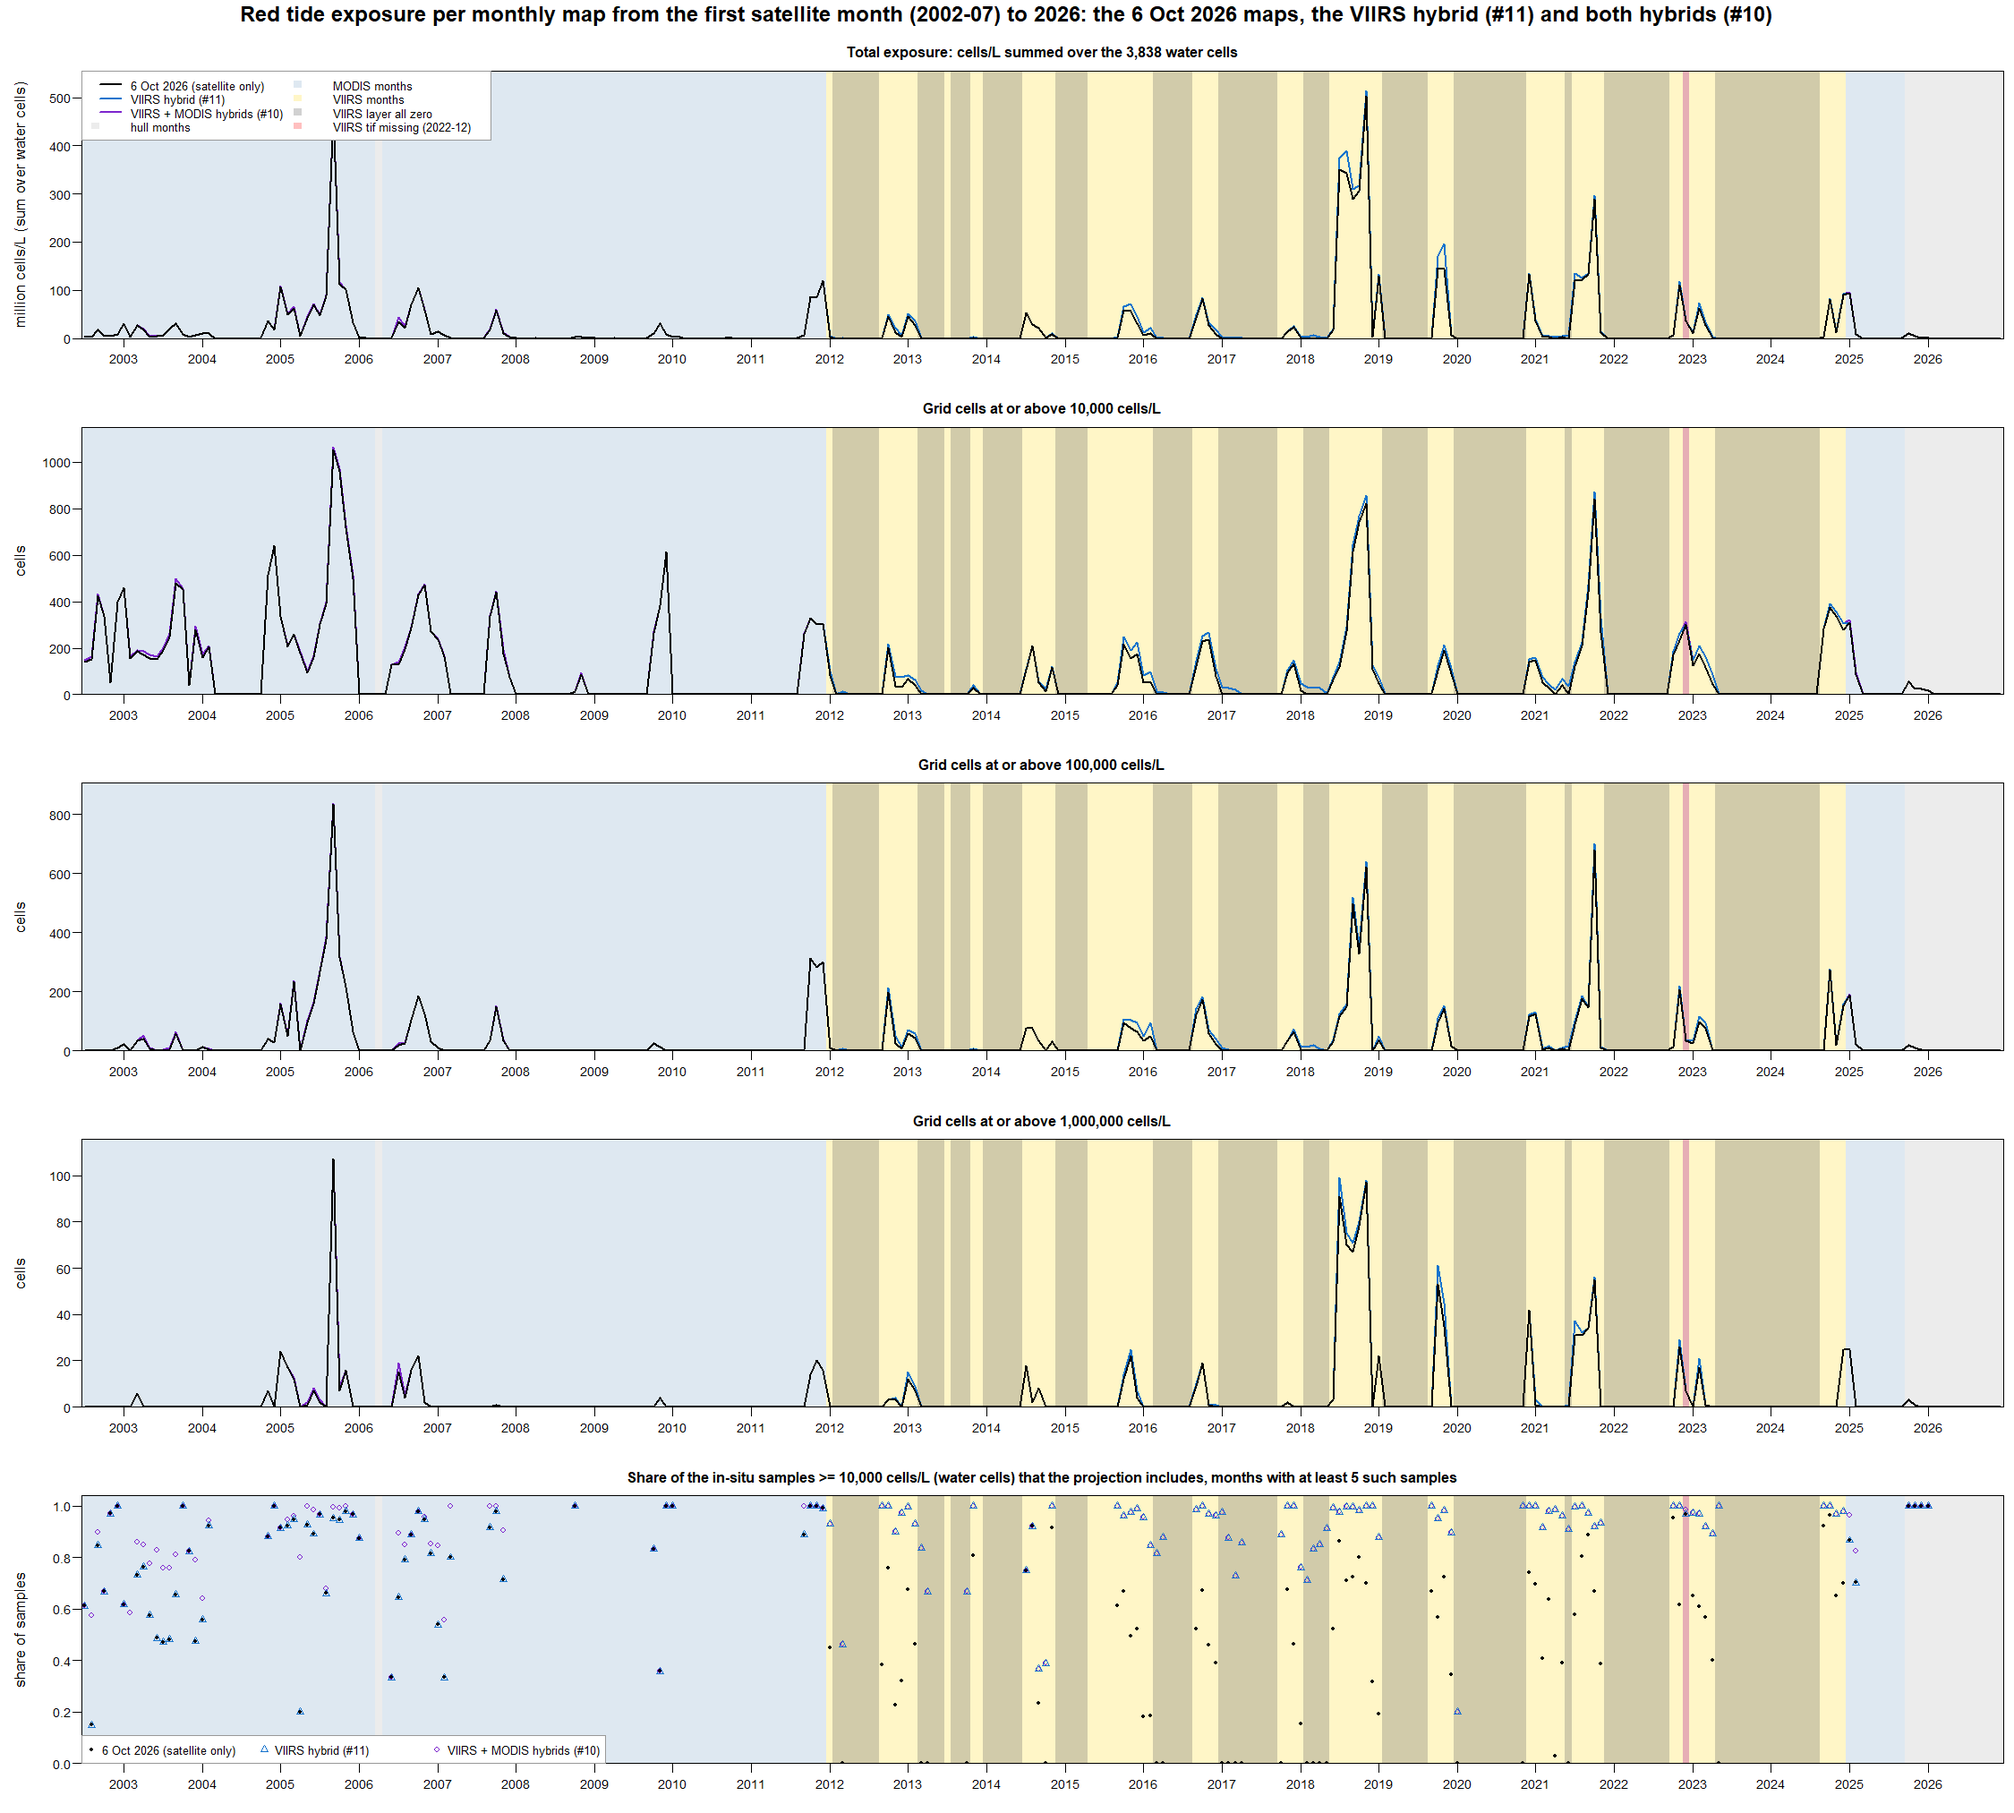
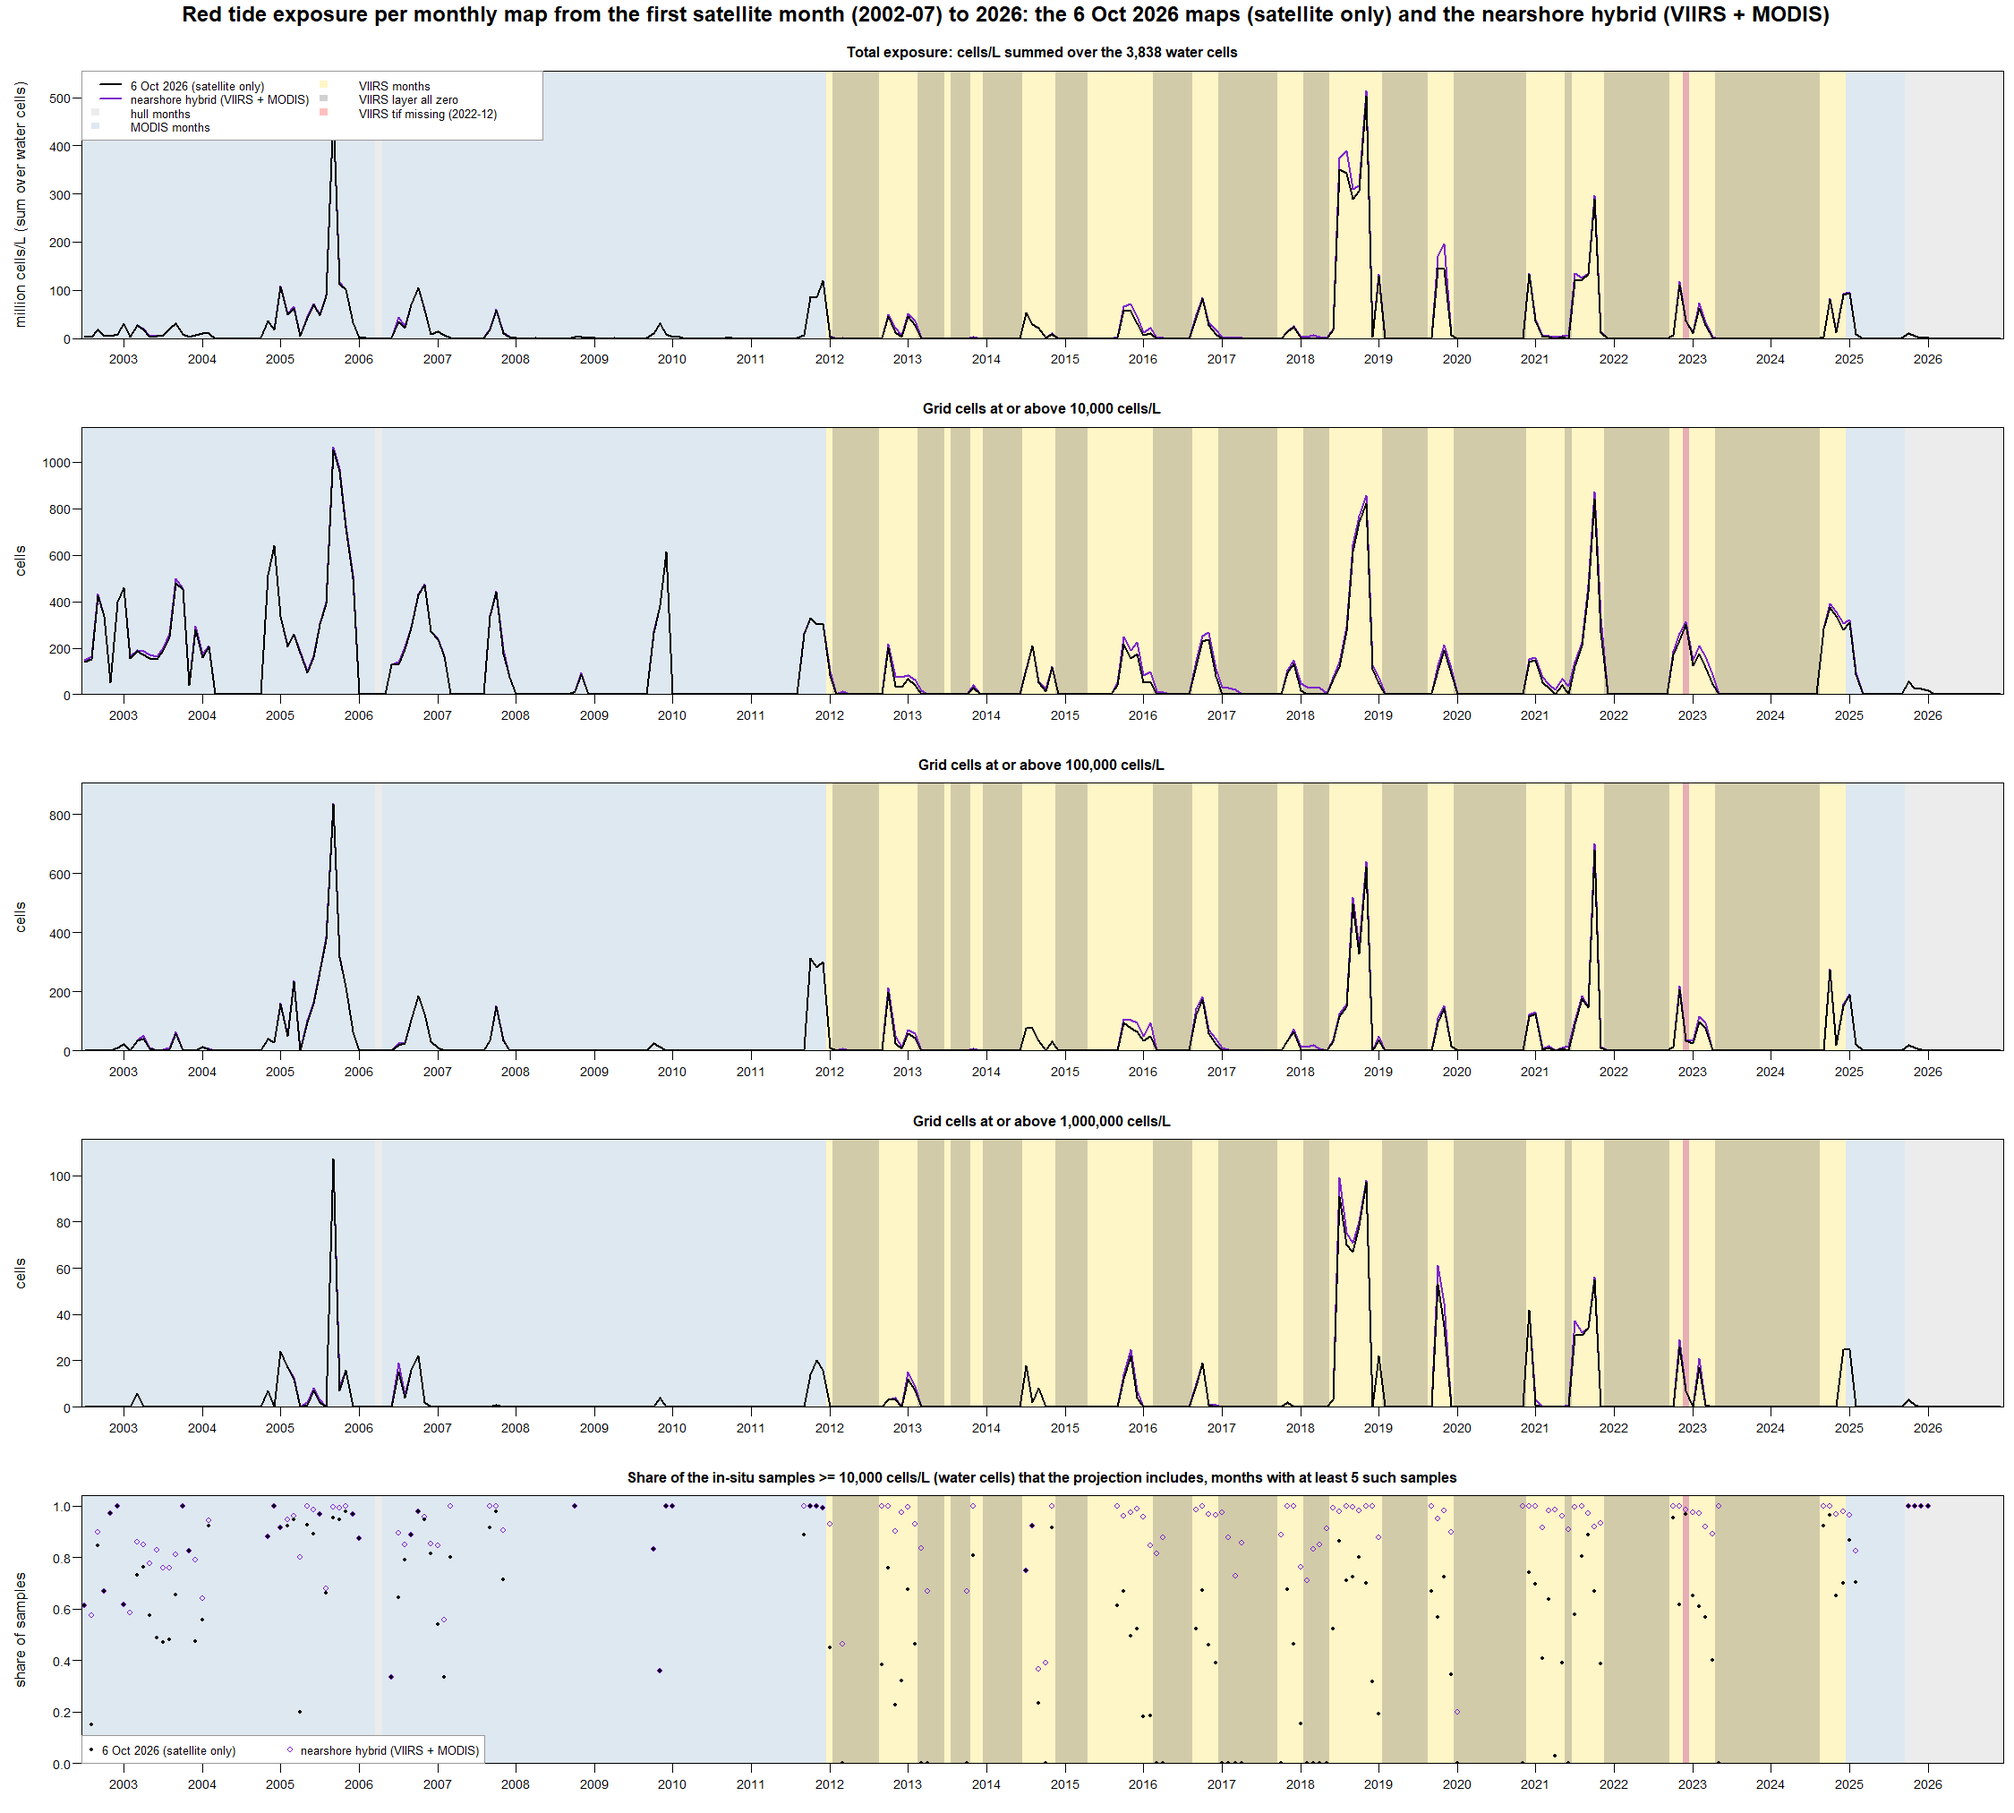
qa: issue #10 fig 4 shows the satellite-only baseline and the full nearshore hybrid only
The VIIRS-only hybrid of #11 lies on the hybrid line in the VIIRS months and on the baseline elsewhere, so its line added nothing; its numbers stay in the record tables. draw_record() takes the variants to draw.

Changed region(s): [[0.0622, 0.0, 0.9022, 0.0933], [0.2178, 0.9333, 0.3111, 0.9956], [0.1556, 0.9644, 0.1867, 0.9956]]

diff --git a/docs/issue10_modis-nearshore-hybrid/README.md b/docs/issue10_modis-nearshore-hybrid/README.md
@@ -52,7 +52,7 @@ After each run, `git checkout -- out/5min/ecospace_ascii out/5min/plots` restore
 | `figures/fig1_examine_months_issue10.pdf` | the 12 months with the largest gain in samples included, then the 8 months with such samples but no bloom cell: samples | MODIS-clipped (the delivered map) | hybrid | hull-clipped with the set shaded; count boxes |
 | `figures/fig2_examine_series_issue10.png` | the 123 MODIS months as a series: total exposure, cells at or above 10k / 100k / 1M cells/L, share of samples included; before and after; all-zero MODIS maps shaded (run B reproduces the prototype, so this is also the run-B series) |
 | `figures/fig3_excluded_samples_issue10.png` | the 799 excluded samples on the map (recovered or not) and their distance to the coast (ECDF) |
-| `figures/fig4_record_2002-2026_issue10.png` | the record from the first satellite month (2002-07) to 2026, the three variants, with the clip source of each month shaded; the hull months before 2002-07 are identical in every variant and are left out |
+| `figures/fig4_record_2002-2026_issue10.png` | the record from the first satellite month (2002-07) to 2026: the satellite-only maps (black) and the nearshore hybrid, VIIRS + MODIS (purple), with the clip source of each month shaded; the hull months before 2002-07 are identical in every variant and are left out, and so is the VIIRS-only hybrid, which lies on the hybrid line in the VIIRS months and on the baseline elsewhere (its numbers are in the tables) |
 | `figures/fig5_cells_modis_issue10.png` | per cell over the MODIS months: cumulative exposure (log colour) and cell-months at or above 100,000 cells/L; MODIS-only, MODIS hybrid, difference; the fig 1 map palette |
 | `comments/examine_summary.md`, `comments/compare_summary.md` | the tables above in markdown, as the script writes them |
 | `hoard/` (gitignored) | local copies of the run A (`before/`) and run B (`after/`) outputs the compare stage reads |
